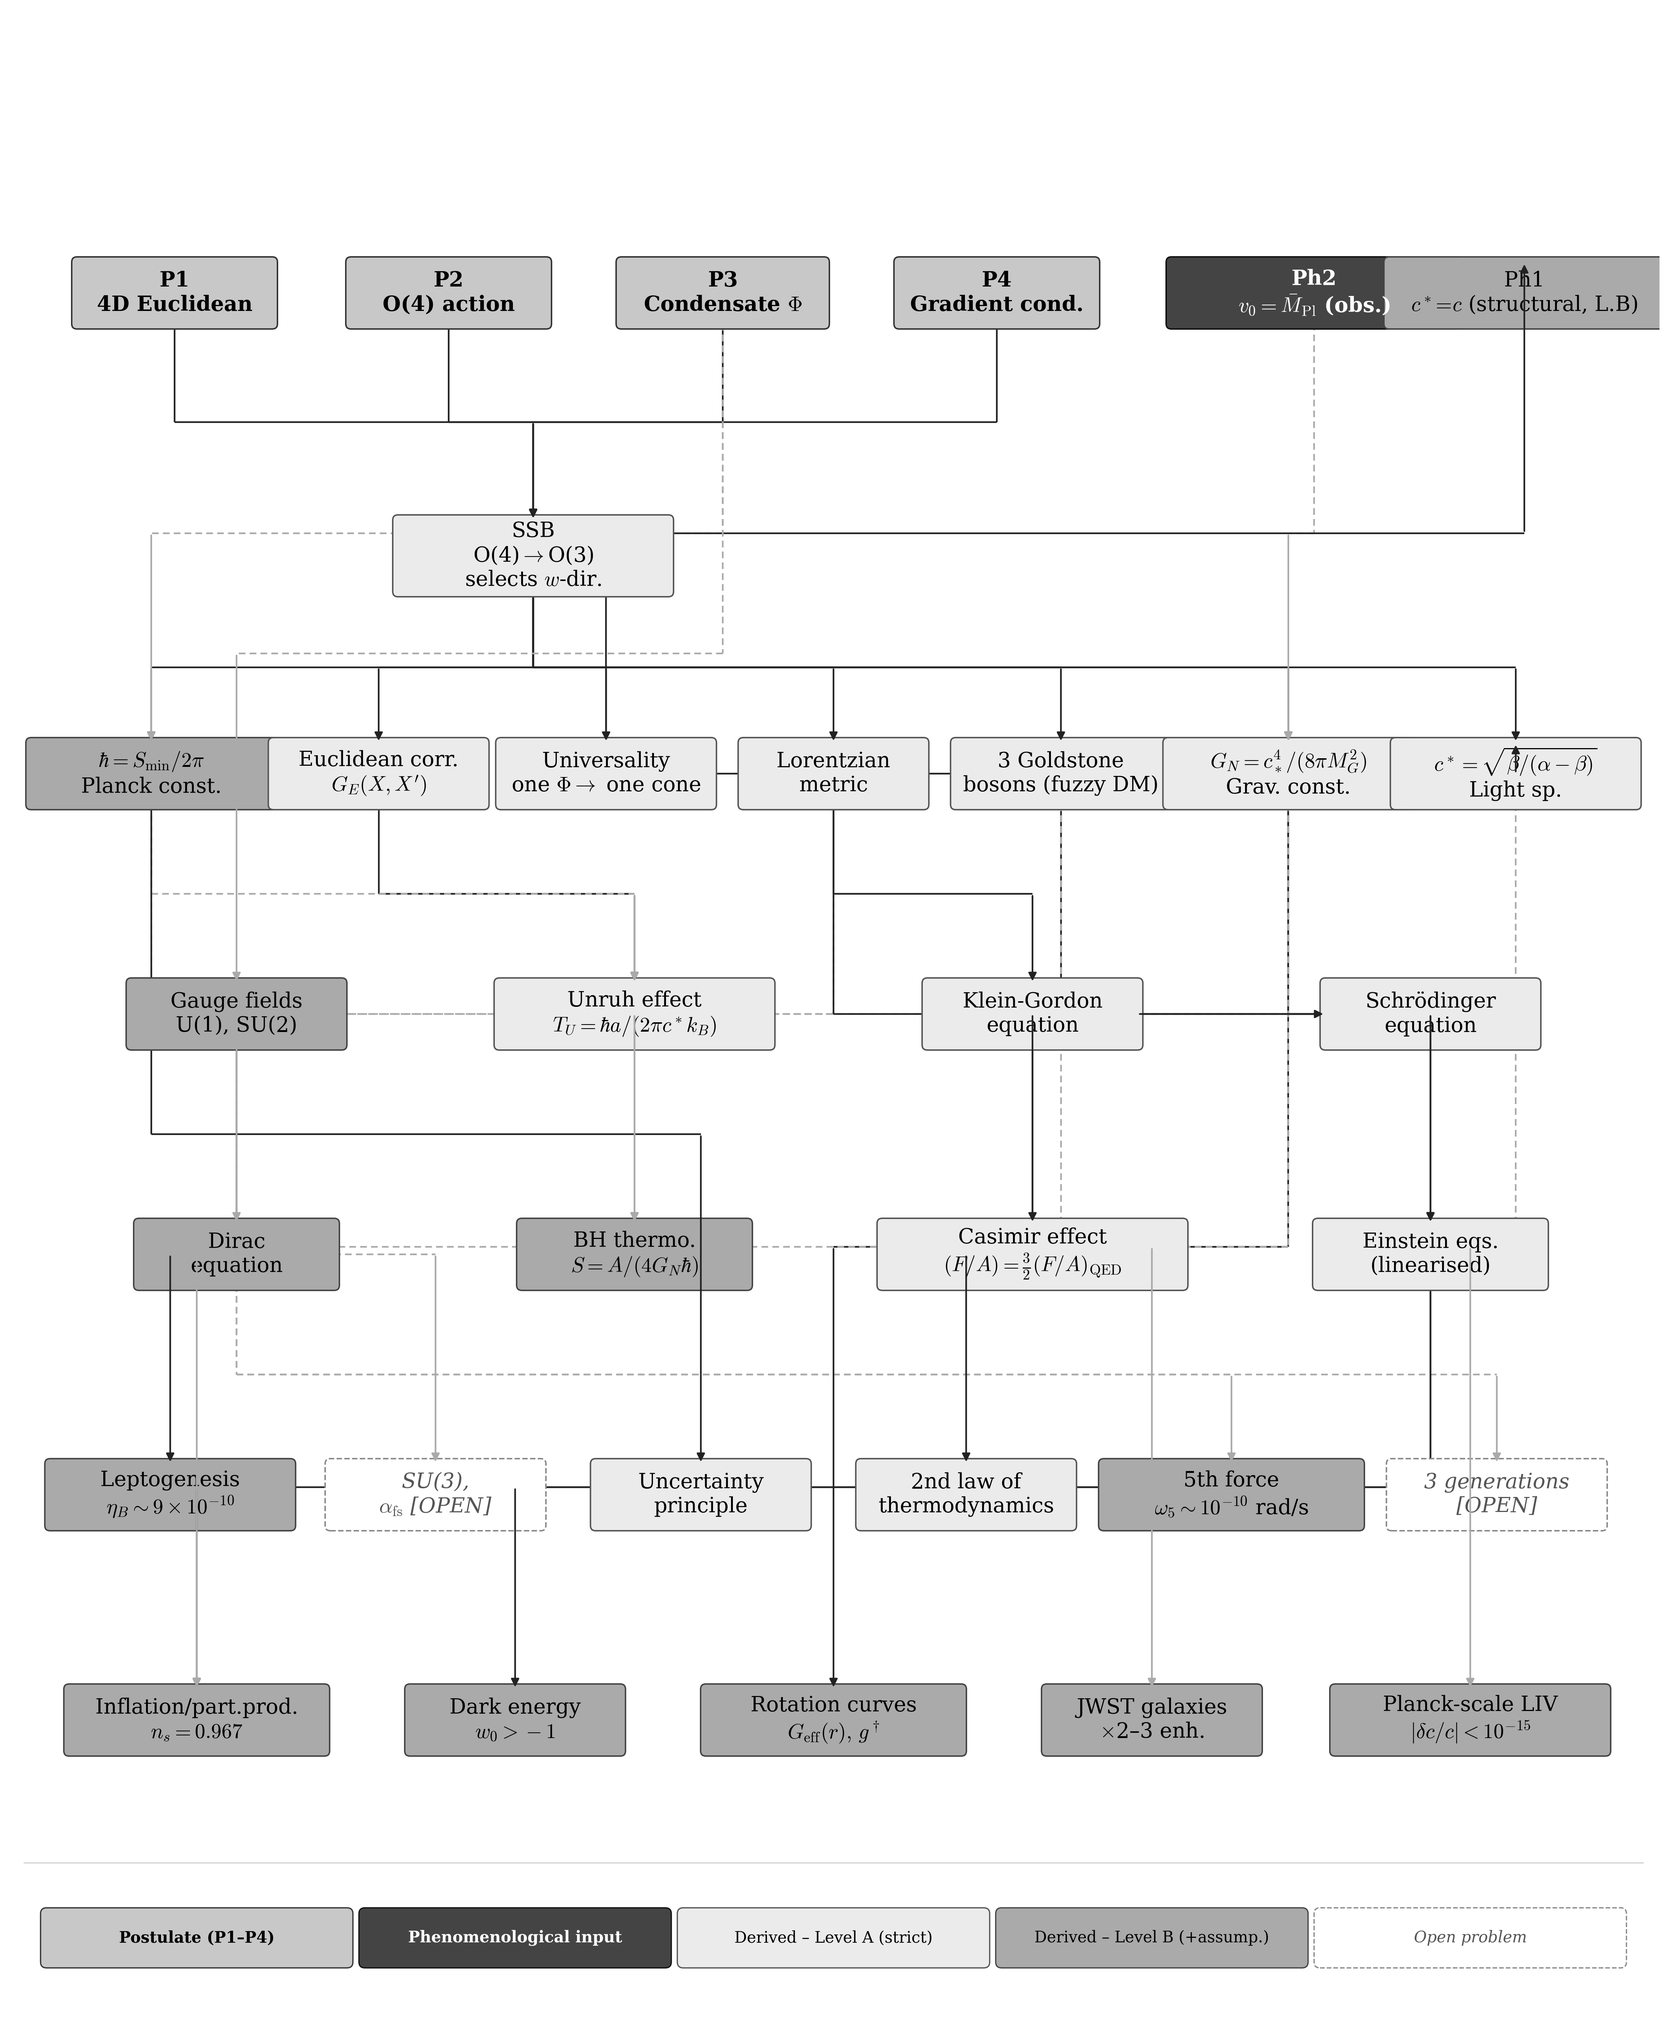
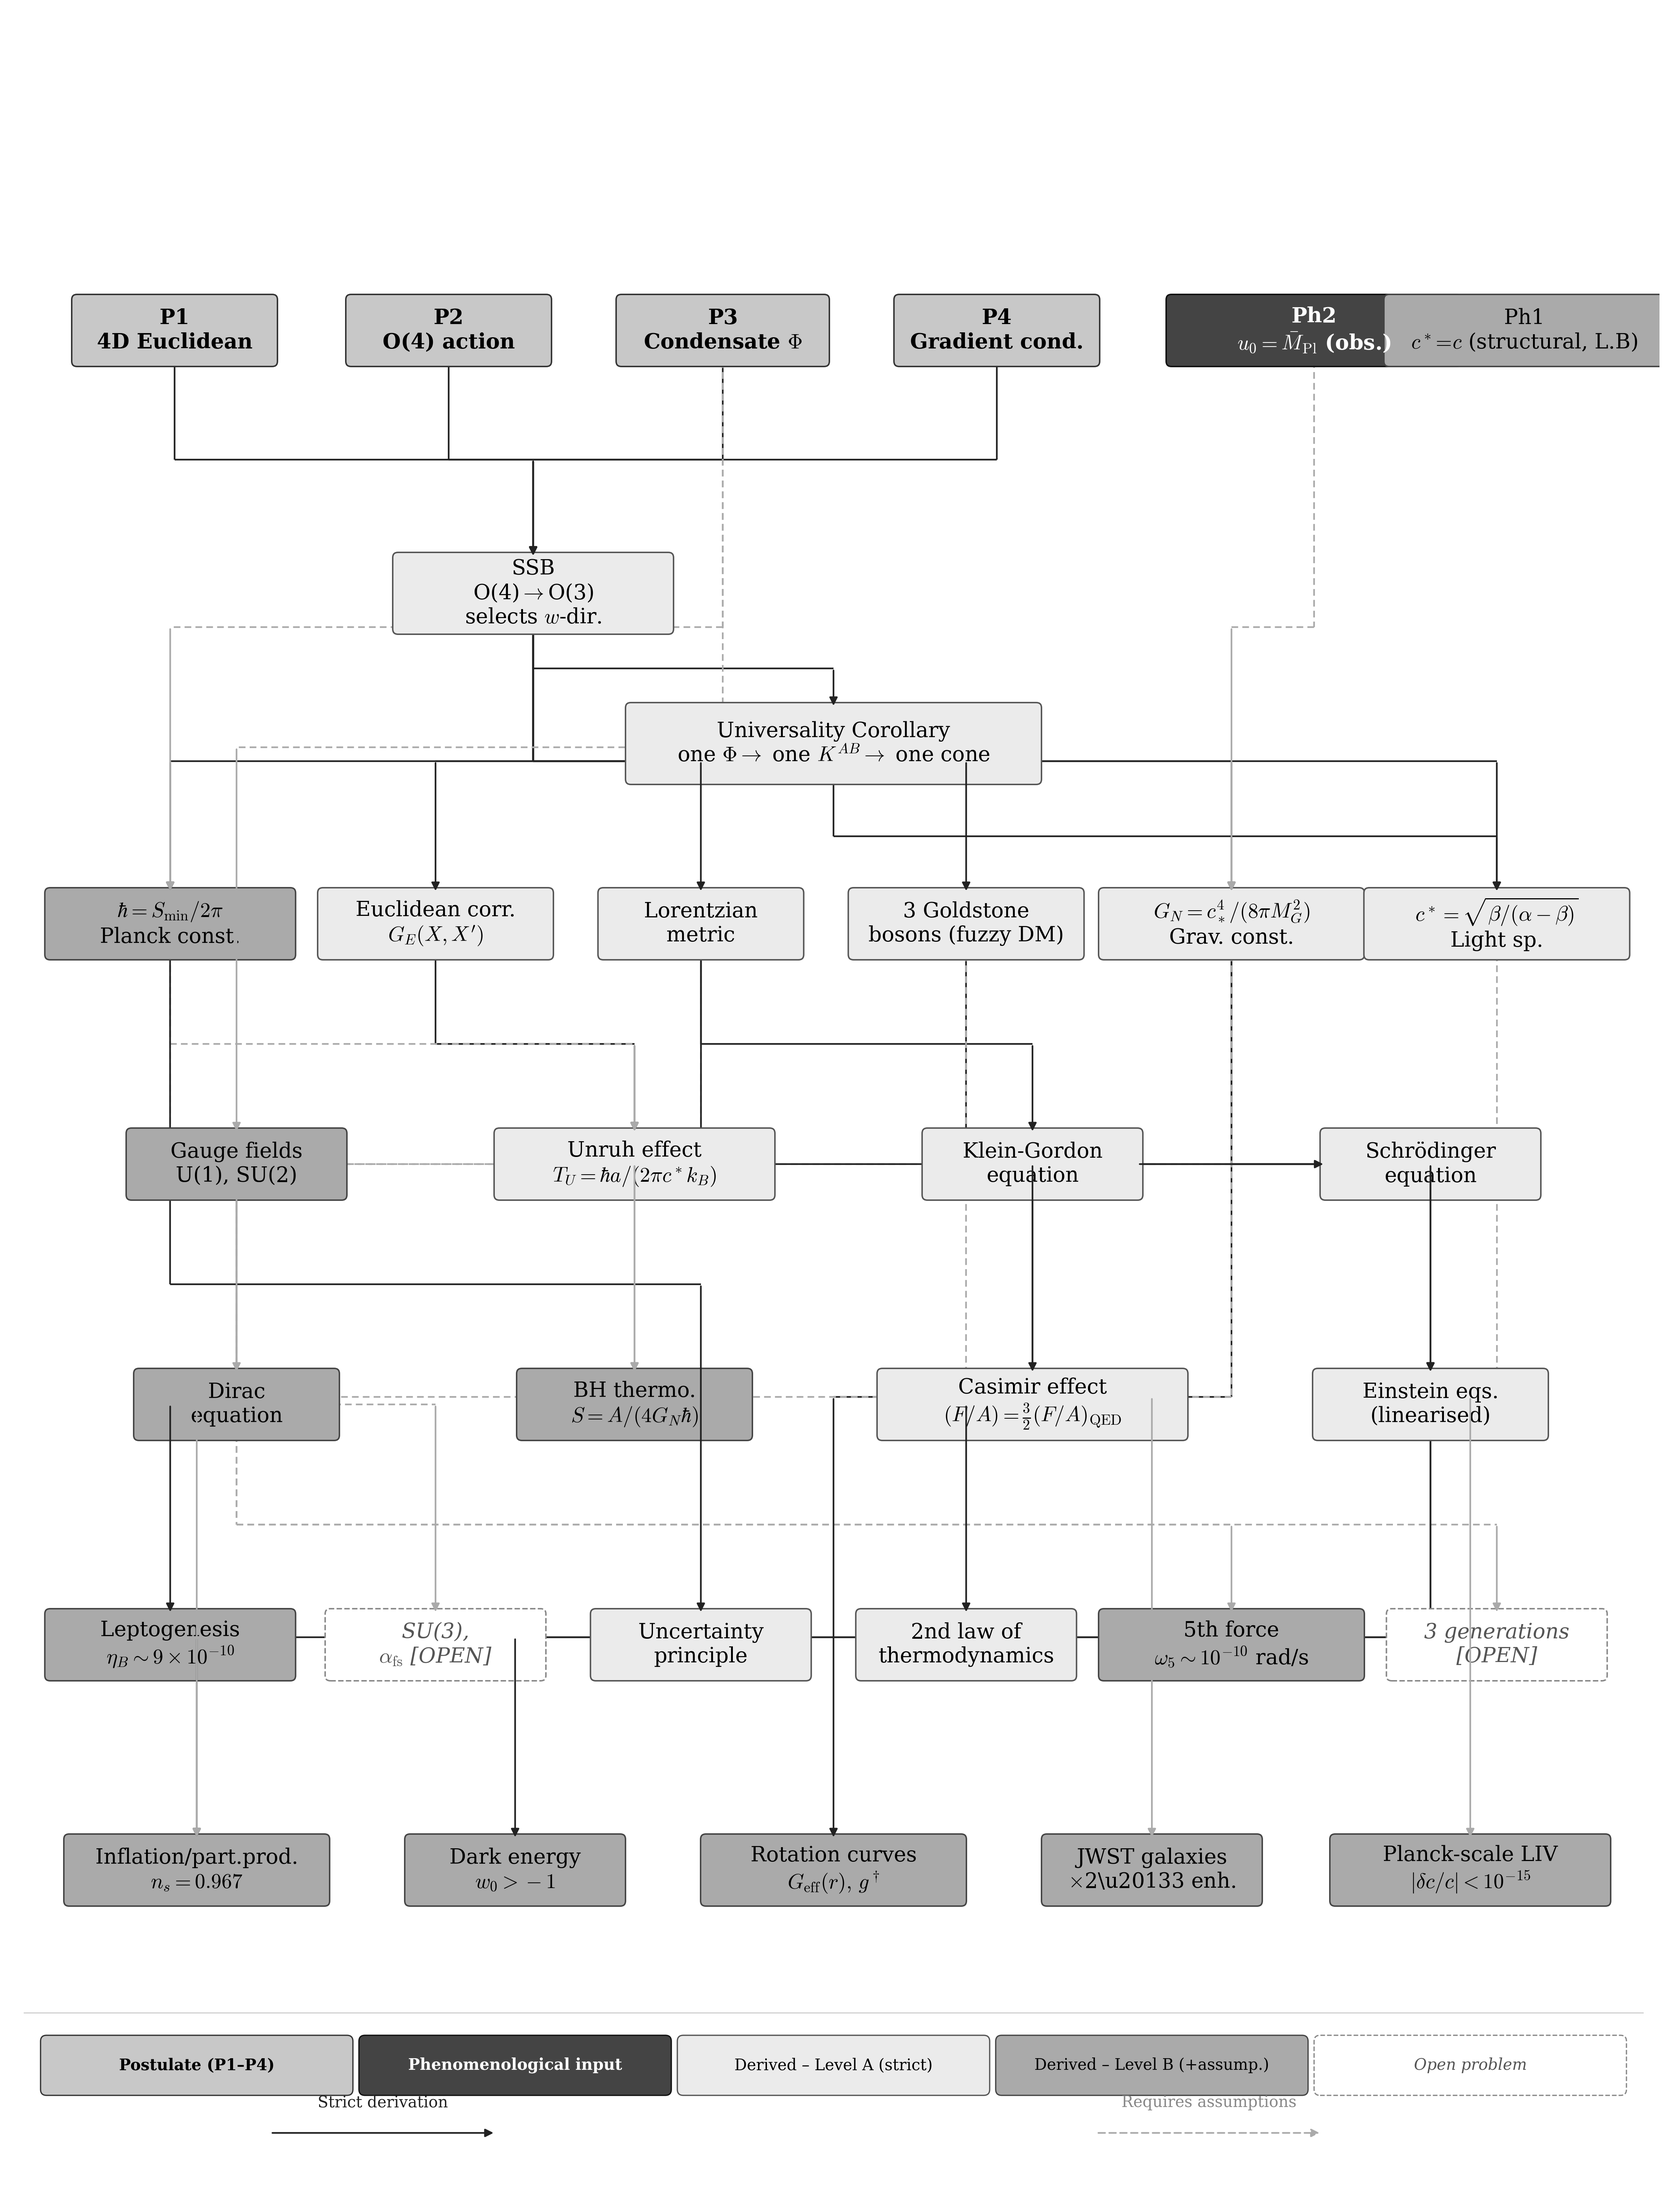
Fix logic graph: Universality node in its own row, 6 nodes in Row 2 (no overlap), arrow legend (solid/dashed) restored; GPT final corrections applied

diff --git a/ECT_preprint.tex b/ECT_preprint.tex
@@ -1688,9 +1688,12 @@ $\eta_{\mu\nu}=\mathrm{diag}(-1,1,1,1)$~(in units $c_*=1$), and
 the isometry group is the Poincar\'e group.
 The scalar broken-branch sector possesses a unique causal cone
 (Universality Corollary, \S\ref{sec:goldstone_integrability_main}).
-The phase sector inherits the same tensor structure, and within
-the minimal gauge-emergence route, $c_\gamma=c_*$
-(\S\ref{sec:cone_inheritance}).
+The phase-sector continuation is controlled by the same
+ordered-phase tensor~(\S\ref{sec:cone_inheritance}).
+Gauge and fermionic sectors inherit the same causal structure
+only within their respective reconstruction
+routes~(Level~B, \S\ref{sec:cone_inheritance},
+\S\ref{sec:fermions}).
 Higher-order Lorentz-violating corrections are expected to be
 Planck-suppressed and controlled by the condensate
 structure~\eqref{eq:LIV_delay}.
@@ -2540,14 +2543,17 @@ Since $\sigma$ and $\pi_i$ are derivatives of~$\chi$, no second
 independent principal symbol exists.
 \hfill$\square$
 
-\emph{Scope.}
-This corollary applies to the linear ordered scalar branch.
-It does not automatically extend to the gauge or fermionic sectors,
-which require additional construction steps
-(gauge emergence, \S\ref{sec:gauge};
-spinorial reconstruction, \S\ref{sec:fermions}).
-The extension to the phase and gauge sectors is discussed in
-\S\ref{sec:cone_inheritance}.
+\emph{Scope and limitations.}
+This corollary establishes causal-cone universality only for the
+linear scalar ordered branch generated by the single-field
+integrability structure.
+The extension to phase, gauge, and fermionic sectors requires
+additional construction steps and is not part of the present
+Level~A statement:
+gauge emergence~(\S\ref{sec:gauge}),
+spinorial reconstruction~(\S\ref{sec:fermions}).
+Those extensions are discussed in \S\ref{sec:cone_inheritance}
+and carry Level~B status.
 
 \emph{Contrast with competing frameworks.}
 In Einstein--aether theory~\cite{Jacobson2004,JacobsonMattingly2001}
@@ -2693,14 +2699,15 @@ phase action takes the form~\eqref{eq:qs_phase_action}:
   \int d^4X\; g_{\rm eff}^{AB}\,\partial_A\theta\,\partial_B\theta
   + S_{\rm higher},
 \]
-where $g_{\rm eff}^{AB}$ is the broken-phase kinetic tensor
-$K^{AB}$---the same tensor that defines the causal cone of the
-geometric branch~(Section~\ref{sec:lorentz_order_field}).
+The phase-sector EFT is written with the same broken-phase tensor
+structure~$K^{AB}$; therefore, within this coherent-sector
+construction, its leading principal part is inherited from the same
+ordered-branch cone~(Section~\ref{sec:lorentz_order_field}).
 This is not a circular argument: $K^{AB}$ is determined by the
 symmetry of SSB~(Theorem~\ref{thm:tensor_uniqueness}), independently
 of any identification $c_*=c$.  Both the propagation speed~$c_*$
 and the phase action~$S_\theta$ are parallel consequences of the
-same root $K^{AB}$, not dependent on each other.
+same root~$K^{AB}$.
 
 Status: Level~A for the tensor structure of $S_\theta$; Level~B for
 the coefficient $K_\theta^{\rm eff}$, which has not yet been derived
@@ -2715,8 +2722,8 @@ If gauge emergence is realised by the minimal gauging procedure
   uniquely of Maxwell type: $F_{AB}F^{AB}$
   (Proposition~3, \S\ref{sec:gauge}).
   This term is built on the same~$g_{\rm eff}^{AB}$.
-\item Within the minimal phase-to-gauge emergence route, no
-  independent leading-order anisotropic gauge kinetic tensor is
+\item Within the minimal phase-to-gauge emergence route adopted here,
+  no independent leading-order anisotropic gauge kinetic tensor is
   introduced beyond the ordered-phase tensor~$K^{AB}$.
   This contrasts with Einstein--aether~\cite{Jacobson2004}, where the
   gauge sector may have its own kinetic coefficients, and with the
@@ -10099,6 +10106,9 @@ branch is selected, the theory admits two distinct effective
 developments under coarse-graining: a phase-insensitive geometric
 branch and a phase-sensitive coherent-topological branch.
 The present section follows the first of these developments.
+Throughout Part~II we work within the structural branch where
+$c_*=c$, conditional on the minimal gauge-emergence route
+established in Part~I~(\S\ref{sec:cone_inheritance}).
 
 \paragraph{Two branches from one condensate.}
 The first branch---the \emph{geometric} or \emph{macroscopic}
